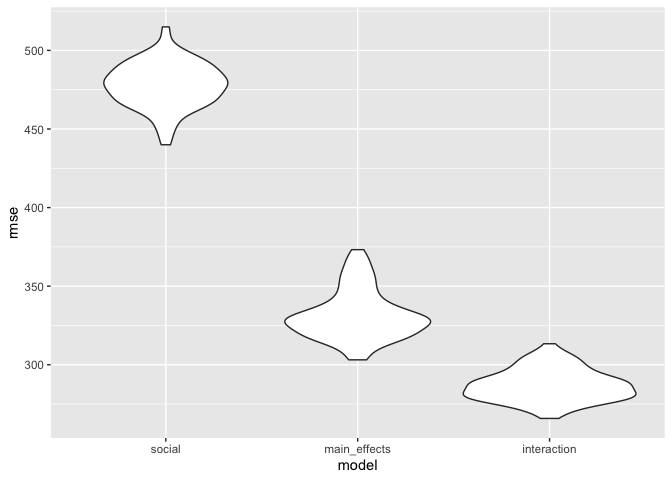
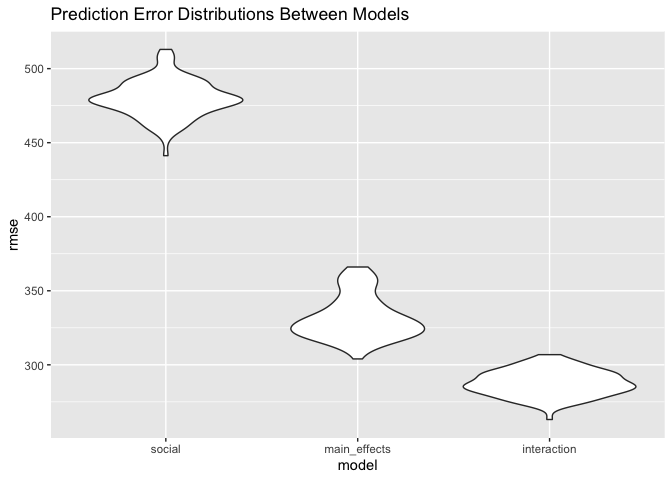
reformatted problem 1

diff --git a/p8105_hw6_hf2379.md b/p8105_hw6_hf2379.md
@@ -15,7 +15,7 @@ Holly Finertie - HF2379
 
 ## Problem 1
 
-#### Load and tidy dataset:
+### a) Load and tidy dataset:
 
 ``` r
 #load and tidy dataset
@@ -57,7 +57,7 @@ anyNA(birthweight)
 
     ## [1] FALSE
 
-### Build a model:
+### b) Build a model:
 
 Many factors, including biological and social, affect birthweight. Per
 [March of
@@ -157,7 +157,7 @@ plot_social = added_social %>%
   geom_point()
 ```
 
-### Test Against Other Models:
+### c) Test Against Other Models:
 
 Based on the below plot, the model with the interaction terms (`bwt =
 bhead + blength + babysex + bhead x blength + bhead x babysex + blength
@@ -182,14 +182,14 @@ bwt_cv %>% pull(train) %>% .[[1]] %>% as_tibble
     ##    <fct>   <dbl>   <dbl> <dbl> <dbl>   <dbl> <fct>   <dbl> <fct>      <dbl>
     ##  1 Female     34      51  3629   177      35 White    39.9 Absent        13
     ##  2 Male       34      48  3062   156      65 Black    25.9 Absent        14
-    ##  3 Female     36      50  3345   148      85 White    39.9 Absent        12
-    ##  4 Male       34      52  3062   157      55 White    40   Absent        14
-    ##  5 Female     34      52  3374   156       5 White    41.6 Absent        13
-    ##  6 Male       33      52  3374   129      55 White    40.7 Absent        12
-    ##  7 Female     33      46  2523   126      96 Black    40.3 Absent        14
-    ##  8 Female     33      49  2778   140       5 White    37.4 Absent        12
-    ##  9 Male       36      52  3515   146      85 White    40.3 Absent        11
-    ## 10 Female     35      51  3317   130      55 White    43.4 Absent        13
+    ##  3 Male       34      52  3062   157      55 White    40   Absent        14
+    ##  4 Male       33      52  3374   129      55 White    40.7 Absent        12
+    ##  5 Female     33      49  2778   140       5 White    37.4 Absent        12
+    ##  6 Male       36      52  3515   146      85 White    40.3 Absent        11
+    ##  7 Male       33      50  3459   169      75 Black    40.7 Absent        12
+    ##  8 Male       35      51  3459   146      55 White    39.4 Absent        12
+    ##  9 Female     35      48  3175   158      75 White    39.7 Absent        13
+    ## 10 Male       36      53  3629   147      75 White    41.3 Absent        11
     ## # … with 3,463 more rows, and 10 more variables: mheight <dbl>,
     ## #   momage <dbl>, mrace <fct>, parity <dbl>, pnumlbw <dbl>, pnumsga <dbl>,
     ## #   ppbmi <dbl>, ppwt <dbl>, smoken <dbl>, wtgain <dbl>
@@ -201,16 +201,16 @@ bwt_cv %>% pull(test) %>% .[[1]] %>% as_tibble
     ## # A tibble: 869 x 20
     ##    babysex bhead blength   bwt delwt fincome frace gaweeks malform menarche
     ##    <fct>   <dbl>   <dbl> <dbl> <dbl>   <dbl> <fct>   <dbl> <fct>      <dbl>
-    ##  1 Male       33      50  3459   169      75 Black    40.7 Absent        12
-    ##  2 Female     35      48  3175   158      75 White    39.7 Absent        13
-    ##  3 Male       34      63  3175   143      25 White    41.9 Absent        13
-    ##  4 Male       35      53  3175   130      45 White    40.4 Absent        13
-    ##  5 Female     34      54  3345   130      95 White    42.1 Absent        10
-    ##  6 Male       35      52  3232   121      75 Asian    42.3 Absent        13
-    ##  7 Male       33      51  3345   140      85 White    38.6 Absent        13
-    ##  8 Female     36      51  3317   136      65 White    42.6 Absent        14
-    ##  9 Female     35      52  2778   165      25 Black    30.4 Absent        13
-    ## 10 Female     34      51  3232   123      96 White    38.4 Absent        11
+    ##  1 Female     36      50  3345   148      85 White    39.9 Absent        12
+    ##  2 Female     34      52  3374   156       5 White    41.6 Absent        13
+    ##  3 Female     33      46  2523   126      96 Black    40.3 Absent        14
+    ##  4 Female     35      51  3317   130      55 White    43.4 Absent        13
+    ##  5 Male       35      51  3544   129      65 White    39.6 Absent        12
+    ##  6 Female     35      57  3374   147      45 White    39.6 Absent        12
+    ##  7 Female     36      56  3685   170      95 White    40.3 Absent        12
+    ##  8 Male       34      63  3175   143      25 White    41.9 Absent        13
+    ##  9 Female     33      49  2948   129      25 White    41   Absent        13
+    ## 10 Male       35      51  3345   145      75 White    41.3 Absent        12
     ## # … with 859 more rows, and 10 more variables: mheight <dbl>,
     ## #   momage <dbl>, mrace <fct>, parity <dbl>, pnumlbw <dbl>, pnumsga <dbl>,
     ## #   ppbmi <dbl>, ppwt <dbl>, smoken <dbl>, wtgain <dbl>
@@ -244,7 +244,10 @@ bwt_cv %>%
     values_to = "rmse",
     names_prefix = "rmse_") %>% 
   mutate(model = fct_inorder(model)) %>% 
-  ggplot(aes(x = model, y = rmse)) + geom_violin()
+  ggplot(aes(x = model, y = rmse)) + geom_violin() +
+  labs(
+    title = "Prediction Error Distributions Between Models"
+  )
 ```
 
 ![](p8105_hw6_hf2379_files/figure-gfm/unnamed-chunk-8-1.png)<!-- -->
